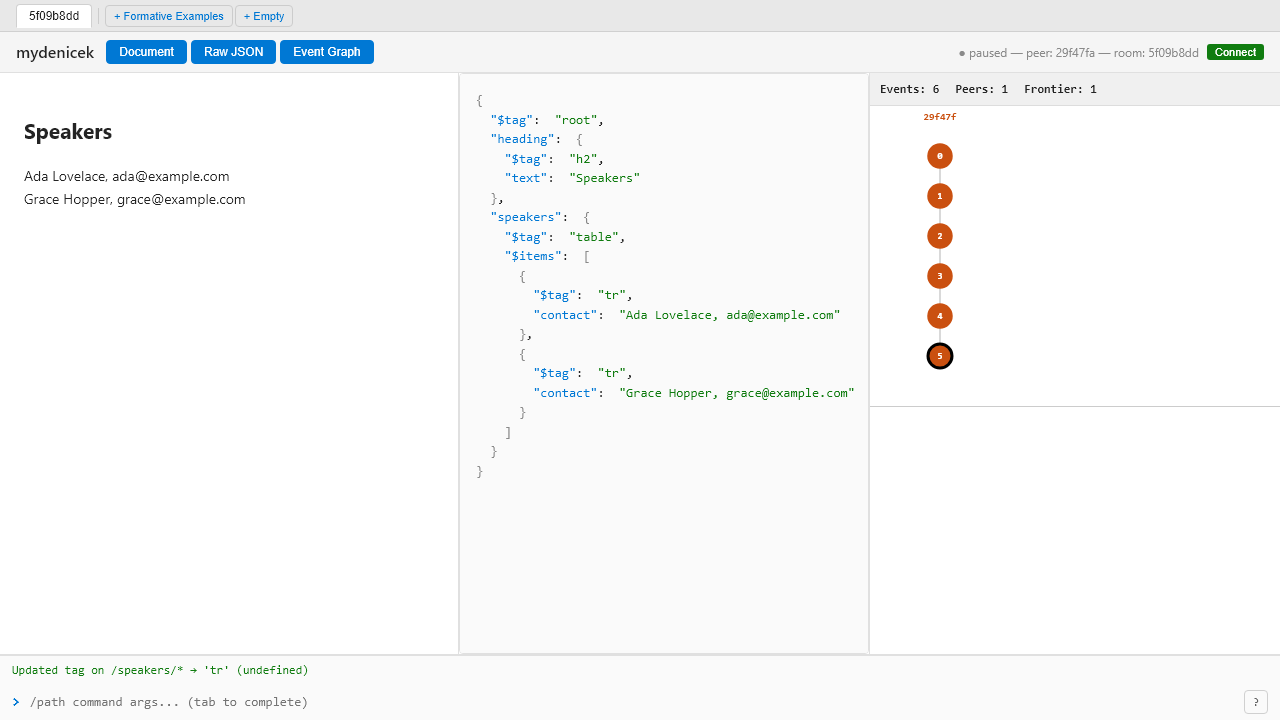
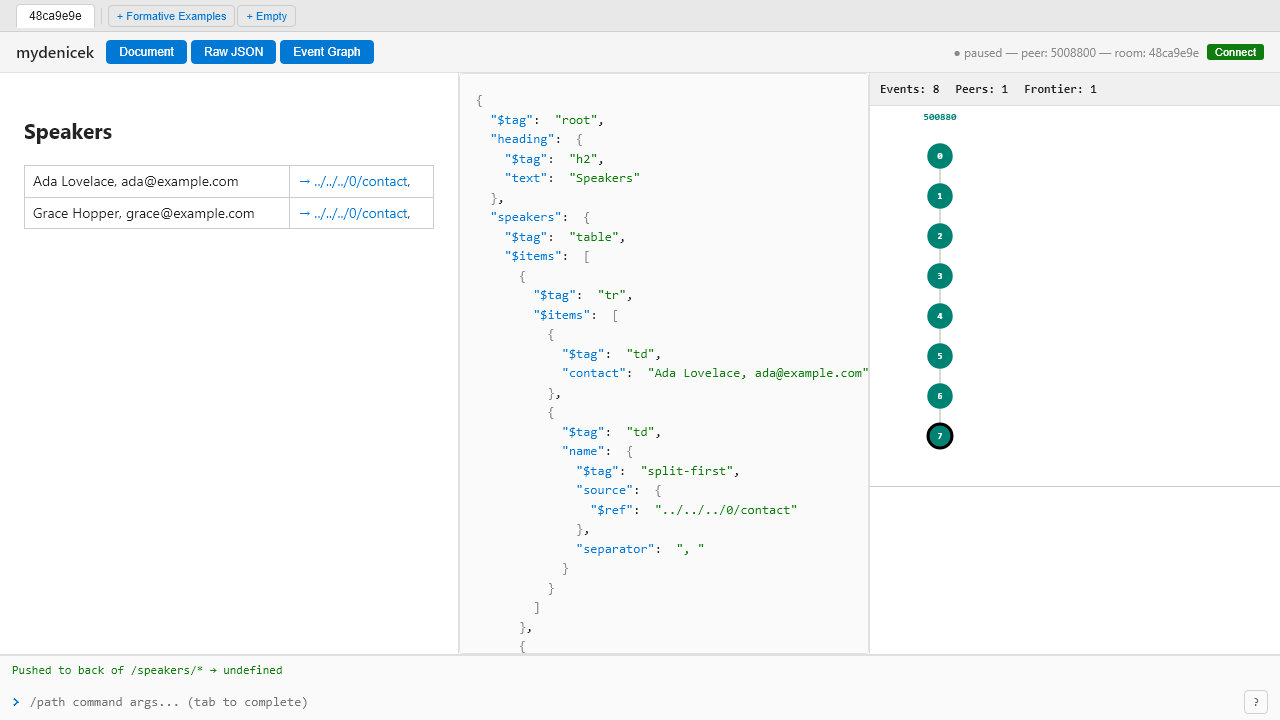
slides: proper table refactoring — wrapList tr, split-first name column
Alice's refactoring now matches the formative test:
updateTag table → updateTag td → wrapList tr → pushBack split-first
Merged screenshot shows tr/td rows with name references.

diff --git a/docs/presentation.html b/docs/presentation.html
@@ -277,17 +277,18 @@
       <img src="slides-assets/30-initial.png" class="screenshot-sm" alt="Initial state — synced list" />
     </div>
     <div style="flex:1">
-      <p class="small" style="text-align:center"><strong>② Alice</strong> — refactors to table</p>
+      <p class="small" style="text-align:center"><strong>② Alice</strong> — refactors to table (offline)</p>
       <img src="slides-assets/31-alice-refactored.png" class="screenshot-sm" alt="Alice refactored list to table" />
     </div>
   </div>
+  <p class="small">Alice: <code>updateTag table</code> → <code>updateTag td</code> → <code>wrapList tr</code> → <code>pushBack split-first</code></p>
 </section>
 
 <section>
   <h2>Demo 3: After Merge</h2>
   <div class="cols">
     <div style="flex:1">
-      <p class="small" style="text-align:center"><strong>③ Bob</strong> — adds speakers (concurrent)</p>
+      <p class="small" style="text-align:center"><strong>③ Bob</strong> — adds speakers (offline)</p>
       <img src="slides-assets/32-bob-added.png" class="screenshot-sm" alt="Bob added speakers to list" />
     </div>
     <div style="flex:1">
@@ -295,7 +296,7 @@
       <img src="slides-assets/33-merged.png" class="screenshot-sm" alt="After merge — concurrent edits converged" />
     </div>
   </div>
-  <p class="small">Bob's <code>&lt;li&gt;</code> items were OT-transformed to <code>&lt;tr&gt;</code>. Event graph shows the concurrent fork.</p>
+  <p class="small">Bob's <code>&lt;li&gt;</code> items were OT-transformed into <code>&lt;tr&gt;/&lt;td&gt;</code> rows with split-first name columns. Event graph shows the fork.</p>
 </section>
 
 <!-- ═══════════════════════════════════════════════════════════════════ -->
